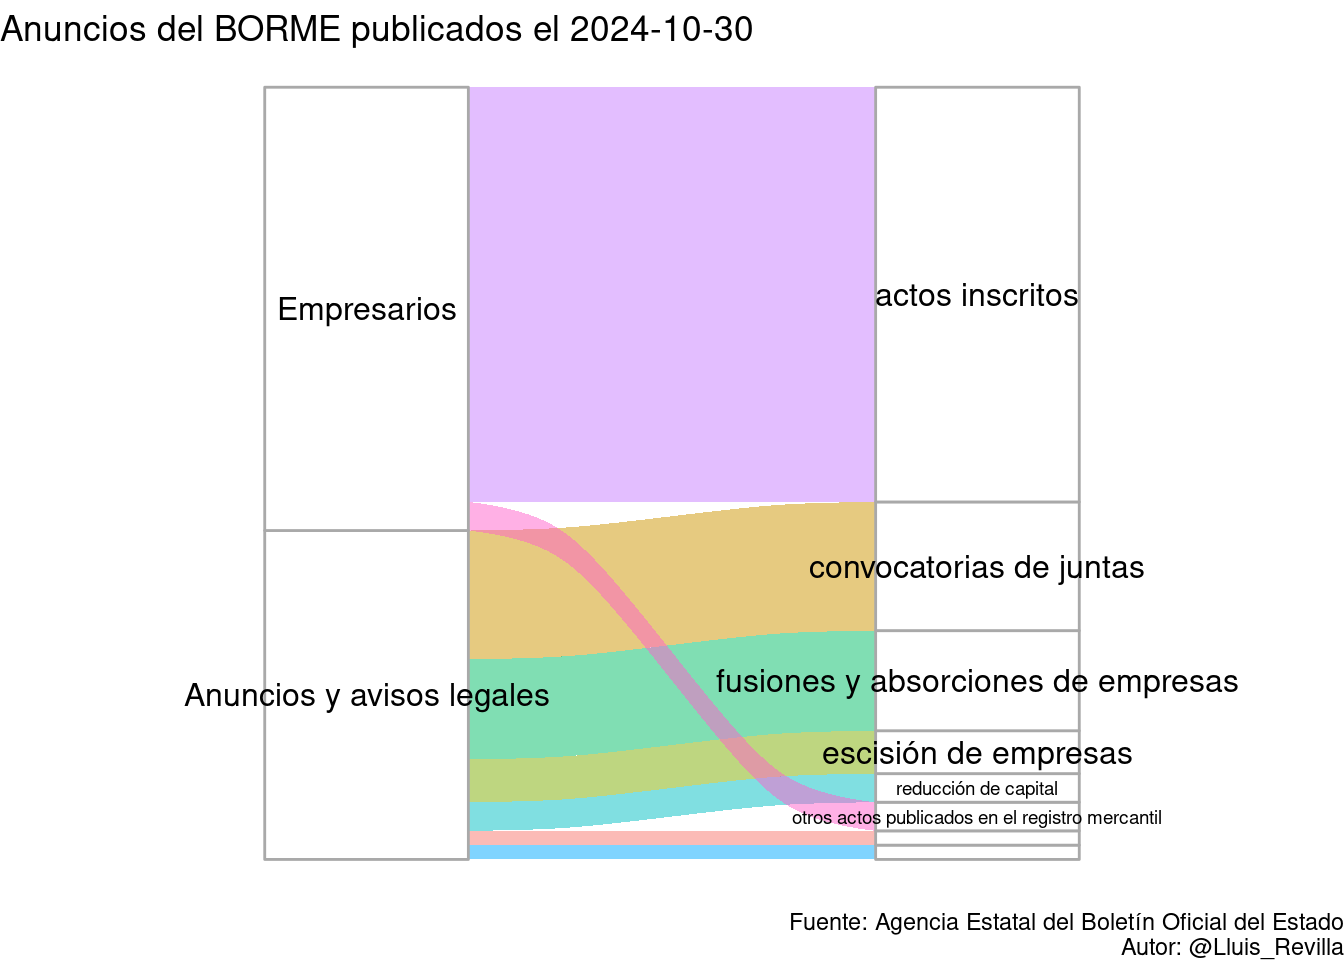
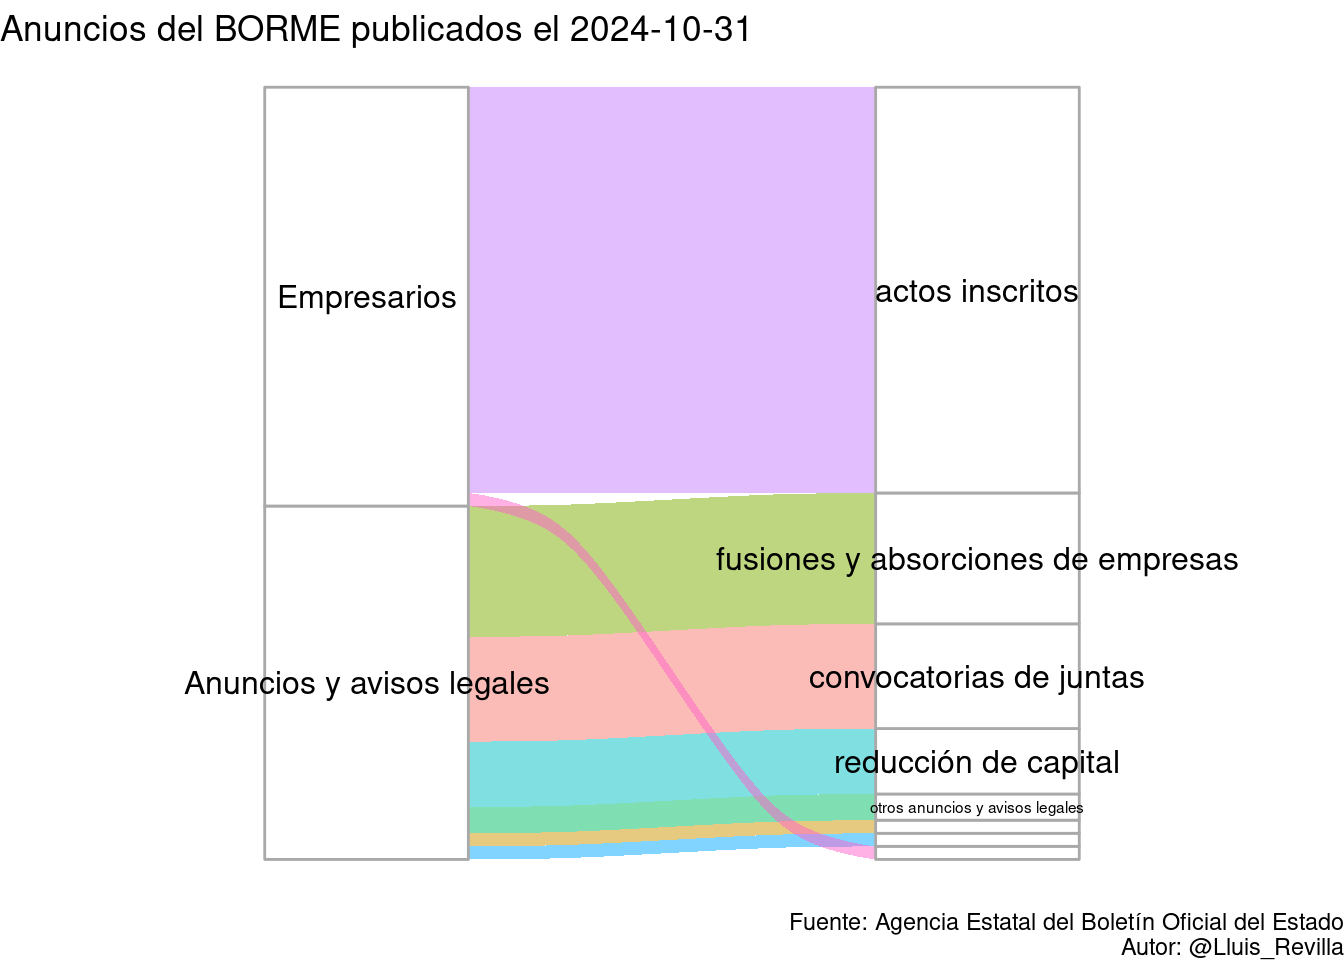
Update BORME

diff --git a/docs/last_BORME.html b/docs/last_BORME.html
@@ -379,14 +379,14 @@ $(document).ready(function () {
 
 <div id="resumen-gráfico" class="section level1">
 <h1>Resumen gráfico</h1>
-<p>Esta página web contiene el último sumario del BORME publicado el 2024-10-30 con 54 publicaciones.</p>
+<p>Esta página web contiene el último sumario del BORME publicado el 2024-10-31 con 59 publicaciones.</p>
 <p><img src="last_BORME_files/figure-html/graphics-1.png" width="672" /></p>
 </div>
 <div id="tabla-de-publicaciones" class="section level1">
 <h1>Tabla de publicaciones</h1>
 <p>Aquí está la tabla completa con enlaces a las publicaciones:</p>
-<div class="datatables html-widget html-fill-item-overflow-hidden html-fill-item" id="htmlwidget-936cdd98e0399a14b1dd" style="width:100%;height:auto;"></div>
-<script type="application/json" data-for="htmlwidget-936cdd98e0399a14b1dd">{"x":{"filter":"top","vertical":false,"filterHTML":"<tr>\n  <td><\/td>\n  <td data-type=\"character\" style=\"vertical-align: top;\">\n    <div class=\"form-group has-feedback\" style=\"margin-bottom: auto;\">\n      <input type=\"search\" placeholder=\"All\" class=\"form-control\" style=\"width: 100%;\"/>\n      <span class=\"glyphicon glyphicon-remove-circle form-control-feedback\"><\/span>\n    <\/div>\n  <\/td>\n  <td data-type=\"character\" style=\"vertical-align: top;\">\n    <div class=\"form-group has-feedback\" style=\"margin-bottom: auto;\">\n      <input type=\"search\" placeholder=\"All\" class=\"form-control\" style=\"width: 100%;\"/>\n      <span class=\"glyphicon glyphicon-remove-circle form-control-feedback\"><\/span>\n    <\/div>\n  <\/td>\n  <td data-type=\"character\" style=\"vertical-align: top;\">\n    <div class=\"form-group has-feedback\" style=\"margin-bottom: auto;\">\n      <input type=\"search\" placeholder=\"All\" class=\"form-control\" style=\"width: 100%;\" disabled=\"\"/>\n      <span class=\"glyphicon glyphicon-remove-circle form-control-feedback\"><\/span>\n    <\/div>\n  <\/td>\n  <td data-type=\"character\" style=\"vertical-align: top;\">\n    <div class=\"form-group has-feedback\" style=\"margin-bottom: auto;\">\n      <input type=\"search\" placeholder=\"All\" class=\"form-control\" style=\"width: 100%;\"/>\n      <span class=\"glyphicon glyphicon-remove-circle form-control-feedback\"><\/span>\n    <\/div>\n  <\/td>\n<\/tr>","data":[["1","2","3","4","5","6","7","8","9","10","11","12","13","14","15","16","17","18","19","20","21","22","23","24","25","26","27","28","29","30","31","32","33","34","35","36","37","38","39","40","41","42","43","44","45","46","47","48","49","50","51","52","53","54"],["SECCIÓN PRIMERA. Empresarios","SECCIÓN PRIMERA. Empresarios","SECCIÓN PRIMERA. Empresarios","SECCIÓN PRIMERA. Empresarios","SECCIÓN PRIMERA. Empresarios","SECCIÓN PRIMERA. Empresarios","SECCIÓN PRIMERA. Empresarios","SECCIÓN PRIMERA. Empresarios","SECCIÓN PRIMERA. Empresarios","SECCIÓN PRIMERA. Empresarios","SECCIÓN PRIMERA. Empresarios","SECCIÓN PRIMERA. Empresarios","SECCIÓN PRIMERA. Empresarios","SECCIÓN PRIMERA. Empresarios","SECCIÓN PRIMERA. Empresarios","SECCIÓN PRIMERA. Empresarios","SECCIÓN PRIMERA. Empresarios","SECCIÓN PRIMERA. Empresarios","SECCIÓN PRIMERA. Empresarios","SECCIÓN PRIMERA. Empresarios","SECCIÓN PRIMERA. Empresarios","SECCIÓN PRIMERA. Empresarios","SECCIÓN PRIMERA. Empresarios","SECCIÓN PRIMERA. Empresarios","SECCIÓN PRIMERA. Empresarios","SECCIÓN PRIMERA. Empresarios","SECCIÓN PRIMERA. Empresarios","SECCIÓN PRIMERA. Empresarios","SECCIÓN PRIMERA. Empresarios","SECCIÓN PRIMERA. Empresarios","SECCIÓN PRIMERA. Empresarios","SECCIÓN SEGUNDA. Anuncios y avisos legales","SECCIÓN SEGUNDA. Anuncios y avisos legales","SECCIÓN SEGUNDA. Anuncios y avisos legales","SECCIÓN SEGUNDA. Anuncios y avisos legales","SECCIÓN SEGUNDA. Anuncios y avisos legales","SECCIÓN SEGUNDA. Anuncios y avisos legales","SECCIÓN SEGUNDA. Anuncios y avisos legales","SECCIÓN SEGUNDA. Anuncios y avisos legales","SECCIÓN SEGUNDA. Anuncios y avisos legales","SECCIÓN SEGUNDA. Anuncios y avisos legales","SECCIÓN SEGUNDA. Anuncios y avisos legales","SECCIÓN SEGUNDA. Anuncios y avisos legales","SECCIÓN SEGUNDA. Anuncios y avisos legales","SECCIÓN SEGUNDA. Anuncios y avisos legales","SECCIÓN SEGUNDA. Anuncios y avisos legales","SECCIÓN SEGUNDA. Anuncios y avisos legales","SECCIÓN SEGUNDA. Anuncios y avisos legales","SECCIÓN SEGUNDA. Anuncios y avisos legales","SECCIÓN SEGUNDA. Anuncios y avisos legales","SECCIÓN SEGUNDA. Anuncios y avisos legales","SECCIÓN SEGUNDA. Anuncios y avisos legales","SECCIÓN SEGUNDA. Anuncios y avisos legales","SECCIÓN SEGUNDA. Anuncios y avisos legales"],["Actos inscritos","Actos inscritos","Actos inscritos","Actos inscritos","Actos inscritos","Actos inscritos","Actos inscritos","Actos inscritos","Actos inscritos","Actos inscritos","Actos inscritos","Actos inscritos","Actos inscritos","Actos inscritos","Actos inscritos","Actos inscritos","Actos inscritos","Actos inscritos","Actos inscritos","Actos inscritos","Actos inscritos","Actos inscritos","Actos inscritos","Actos inscritos","Actos inscritos","Actos inscritos","Actos inscritos","Actos inscritos","Actos inscritos","Otros actos publicados en el Registro Mercantil","Otros actos publicados en el Registro Mercantil","CONVOCATORIAS DE JUNTAS","CONVOCATORIAS DE JUNTAS","CONVOCATORIAS DE JUNTAS","CONVOCATORIAS DE JUNTAS","CONVOCATORIAS DE JUNTAS","CONVOCATORIAS DE JUNTAS","CONVOCATORIAS DE JUNTAS","CONVOCATORIAS DE JUNTAS","CONVOCATORIAS DE JUNTAS","FUSIONES Y ABSORCIONES DE EMPRESAS","FUSIONES Y ABSORCIONES DE EMPRESAS","FUSIONES Y ABSORCIONES DE EMPRESAS","FUSIONES Y ABSORCIONES DE EMPRESAS","FUSIONES Y ABSORCIONES DE EMPRESAS","FUSIONES Y ABSORCIONES DE EMPRESAS","FUSIONES Y ABSORCIONES DE EMPRESAS","ESCISIÓN DE EMPRESAS","ESCISIÓN DE EMPRESAS","ESCISIÓN DE EMPRESAS","TRANSFORMACIÓN DE EMPRESAS","AUMENTO DE CAPITAL","REDUCCIÓN DE CAPITAL","REDUCCIÓN DE CAPITAL"],[null,null,null,null,null,null,null,null,null,null,null,null,null,null,null,null,null,null,null,null,null,null,null,null,null,null,null,null,null,null,null,null,null,null,null,null,null,null,null,null,null,null,null,null,null,null,null,null,null,null,null,null,null,null],["BORME-A-2024-210-03","BORME-A-2024-210-04","BORME-A-2024-210-05","BORME-A-2024-210-07","BORME-A-2024-210-08","BORME-A-2024-210-09","BORME-A-2024-210-11","BORME-A-2024-210-15","BORME-A-2024-210-17","BORME-A-2024-210-18","BORME-A-2024-210-23","BORME-A-2024-210-24","BORME-A-2024-210-25","BORME-A-2024-210-26","BORME-A-2024-210-28","BORME-A-2024-210-29","BORME-A-2024-210-30","BORME-A-2024-210-32","BORME-A-2024-210-35","BORME-A-2024-210-36","BORME-A-2024-210-38","BORME-A-2024-210-40","BORME-A-2024-210-43","BORME-A-2024-210-45","BORME-A-2024-210-46","BORME-A-2024-210-49","BORME-A-2024-210-50","BORME-A-2024-210-51","BORME-A-2024-210-99","BORME-B-2024-210-43","BORME-B-2024-210-48","BORME-C-2024-5793","BORME-C-2024-5794","BORME-C-2024-5795","BORME-C-2024-5796","BORME-C-2024-5797","BORME-C-2024-5798","BORME-C-2024-5799","BORME-C-2024-5800","BORME-C-2024-5801","BORME-C-2024-5802","BORME-C-2024-5803","BORME-C-2024-5804","BORME-C-2024-5805","BORME-C-2024-5806","BORME-C-2024-5807","BORME-C-2024-5808","BORME-C-2024-5809","BORME-C-2024-5810","BORME-C-2024-5811","BORME-C-2024-5812","BORME-C-2024-5813","BORME-C-2024-5814","BORME-C-2024-5815"]],"container":"<table class=\"display\">\n  <thead>\n    <tr>\n      <th> <\/th>\n      <th>Sección<\/th>\n      <th>Emisor<\/th>\n      <th>Texto<\/th>\n      <th>Link<\/th>\n    <\/tr>\n  <\/thead>\n<\/table>","options":{"pageLength":10,"autoWidth":true,"columnDefs":[{"orderable":false,"targets":0},{"name":" ","targets":0},{"name":"Sección","targets":1},{"name":"Emisor","targets":2},{"name":"Texto","targets":3},{"name":"Link","targets":4}],"order":[],"orderClasses":false,"orderCellsTop":true}},"evals":[],"jsHooks":[]}</script>
+<div class="datatables html-widget html-fill-item-overflow-hidden html-fill-item" id="htmlwidget-fffde21763f0736891bd" style="width:100%;height:auto;"></div>
+<script type="application/json" data-for="htmlwidget-fffde21763f0736891bd">{"x":{"filter":"top","vertical":false,"filterHTML":"<tr>\n  <td><\/td>\n  <td data-type=\"character\" style=\"vertical-align: top;\">\n    <div class=\"form-group has-feedback\" style=\"margin-bottom: auto;\">\n      <input type=\"search\" placeholder=\"All\" class=\"form-control\" style=\"width: 100%;\"/>\n      <span class=\"glyphicon glyphicon-remove-circle form-control-feedback\"><\/span>\n    <\/div>\n  <\/td>\n  <td data-type=\"character\" style=\"vertical-align: top;\">\n    <div class=\"form-group has-feedback\" style=\"margin-bottom: auto;\">\n      <input type=\"search\" placeholder=\"All\" class=\"form-control\" style=\"width: 100%;\"/>\n      <span class=\"glyphicon glyphicon-remove-circle form-control-feedback\"><\/span>\n    <\/div>\n  <\/td>\n  <td data-type=\"character\" style=\"vertical-align: top;\">\n    <div class=\"form-group has-feedback\" style=\"margin-bottom: auto;\">\n      <input type=\"search\" placeholder=\"All\" class=\"form-control\" style=\"width: 100%;\" disabled=\"\"/>\n      <span class=\"glyphicon glyphicon-remove-circle form-control-feedback\"><\/span>\n    <\/div>\n  <\/td>\n  <td data-type=\"character\" style=\"vertical-align: top;\">\n    <div class=\"form-group has-feedback\" style=\"margin-bottom: auto;\">\n      <input type=\"search\" placeholder=\"All\" class=\"form-control\" style=\"width: 100%;\"/>\n      <span class=\"glyphicon glyphicon-remove-circle form-control-feedback\"><\/span>\n    <\/div>\n  <\/td>\n<\/tr>","data":[["1","2","3","4","5","6","7","8","9","10","11","12","13","14","15","16","17","18","19","20","21","22","23","24","25","26","27","28","29","30","31","32","33","34","35","36","37","38","39","40","41","42","43","44","45","46","47","48","49","50","51","52","53","54","55","56","57","58","59"],["SECCIÓN PRIMERA. Empresarios","SECCIÓN PRIMERA. Empresarios","SECCIÓN PRIMERA. Empresarios","SECCIÓN PRIMERA. Empresarios","SECCIÓN PRIMERA. Empresarios","SECCIÓN PRIMERA. Empresarios","SECCIÓN PRIMERA. Empresarios","SECCIÓN PRIMERA. Empresarios","SECCIÓN PRIMERA. Empresarios","SECCIÓN PRIMERA. Empresarios","SECCIÓN PRIMERA. Empresarios","SECCIÓN PRIMERA. Empresarios","SECCIÓN PRIMERA. Empresarios","SECCIÓN PRIMERA. Empresarios","SECCIÓN PRIMERA. Empresarios","SECCIÓN PRIMERA. Empresarios","SECCIÓN PRIMERA. Empresarios","SECCIÓN PRIMERA. Empresarios","SECCIÓN PRIMERA. Empresarios","SECCIÓN PRIMERA. Empresarios","SECCIÓN PRIMERA. Empresarios","SECCIÓN PRIMERA. Empresarios","SECCIÓN PRIMERA. Empresarios","SECCIÓN PRIMERA. Empresarios","SECCIÓN PRIMERA. Empresarios","SECCIÓN PRIMERA. Empresarios","SECCIÓN PRIMERA. Empresarios","SECCIÓN PRIMERA. Empresarios","SECCIÓN PRIMERA. Empresarios","SECCIÓN PRIMERA. Empresarios","SECCIÓN PRIMERA. Empresarios","SECCIÓN PRIMERA. Empresarios","SECCIÓN SEGUNDA. Anuncios y avisos legales","SECCIÓN SEGUNDA. Anuncios y avisos legales","SECCIÓN SEGUNDA. Anuncios y avisos legales","SECCIÓN SEGUNDA. Anuncios y avisos legales","SECCIÓN SEGUNDA. Anuncios y avisos legales","SECCIÓN SEGUNDA. Anuncios y avisos legales","SECCIÓN SEGUNDA. Anuncios y avisos legales","SECCIÓN SEGUNDA. Anuncios y avisos legales","SECCIÓN SEGUNDA. Anuncios y avisos legales","SECCIÓN SEGUNDA. Anuncios y avisos legales","SECCIÓN SEGUNDA. Anuncios y avisos legales","SECCIÓN SEGUNDA. Anuncios y avisos legales","SECCIÓN SEGUNDA. Anuncios y avisos legales","SECCIÓN SEGUNDA. Anuncios y avisos legales","SECCIÓN SEGUNDA. Anuncios y avisos legales","SECCIÓN SEGUNDA. Anuncios y avisos legales","SECCIÓN SEGUNDA. Anuncios y avisos legales","SECCIÓN SEGUNDA. Anuncios y avisos legales","SECCIÓN SEGUNDA. Anuncios y avisos legales","SECCIÓN SEGUNDA. Anuncios y avisos legales","SECCIÓN SEGUNDA. Anuncios y avisos legales","SECCIÓN SEGUNDA. Anuncios y avisos legales","SECCIÓN SEGUNDA. Anuncios y avisos legales","SECCIÓN SEGUNDA. Anuncios y avisos legales","SECCIÓN SEGUNDA. Anuncios y avisos legales","SECCIÓN SEGUNDA. Anuncios y avisos legales","SECCIÓN SEGUNDA. Anuncios y avisos legales"],["Actos inscritos","Actos inscritos","Actos inscritos","Actos inscritos","Actos inscritos","Actos inscritos","Actos inscritos","Actos inscritos","Actos inscritos","Actos inscritos","Actos inscritos","Actos inscritos","Actos inscritos","Actos inscritos","Actos inscritos","Actos inscritos","Actos inscritos","Actos inscritos","Actos inscritos","Actos inscritos","Actos inscritos","Actos inscritos","Actos inscritos","Actos inscritos","Actos inscritos","Actos inscritos","Actos inscritos","Actos inscritos","Actos inscritos","Actos inscritos","Actos inscritos","Otros actos publicados en el Registro Mercantil","CONVOCATORIAS DE JUNTAS","CONVOCATORIAS DE JUNTAS","CONVOCATORIAS DE JUNTAS","CONVOCATORIAS DE JUNTAS","CONVOCATORIAS DE JUNTAS","CONVOCATORIAS DE JUNTAS","CONVOCATORIAS DE JUNTAS","CONVOCATORIAS DE JUNTAS","FUSIONES Y ABSORCIONES DE EMPRESAS","FUSIONES Y ABSORCIONES DE EMPRESAS","FUSIONES Y ABSORCIONES DE EMPRESAS","FUSIONES Y ABSORCIONES DE EMPRESAS","FUSIONES Y ABSORCIONES DE EMPRESAS","FUSIONES Y ABSORCIONES DE EMPRESAS","FUSIONES Y ABSORCIONES DE EMPRESAS","FUSIONES Y ABSORCIONES DE EMPRESAS","FUSIONES Y ABSORCIONES DE EMPRESAS","FUSIONES Y ABSORCIONES DE EMPRESAS","ESCISIÓN DE EMPRESAS","TRANSFORMACIÓN DE EMPRESAS","REDUCCIÓN DE CAPITAL","REDUCCIÓN DE CAPITAL","REDUCCIÓN DE CAPITAL","REDUCCIÓN DE CAPITAL","REDUCCIÓN DE CAPITAL","OTROS ANUNCIOS Y AVISOS LEGALES","OTROS ANUNCIOS Y AVISOS LEGALES"],[null,null,null,null,null,null,null,null,null,null,null,null,null,null,null,null,null,null,null,null,null,null,null,null,null,null,null,null,null,null,null,null,null,null,null,null,null,null,null,null,null,null,null,null,null,null,null,null,null,null,null,null,null,null,null,null,null,null,null],["BORME-A-2024-211-02","BORME-A-2024-211-03","BORME-A-2024-211-04","BORME-A-2024-211-06","BORME-A-2024-211-08","BORME-A-2024-211-09","BORME-A-2024-211-12","BORME-A-2024-211-15","BORME-A-2024-211-17","BORME-A-2024-211-18","BORME-A-2024-211-22","BORME-A-2024-211-23","BORME-A-2024-211-24","BORME-A-2024-211-26","BORME-A-2024-211-28","BORME-A-2024-211-29","BORME-A-2024-211-30","BORME-A-2024-211-31","BORME-A-2024-211-33","BORME-A-2024-211-34","BORME-A-2024-211-35","BORME-A-2024-211-36","BORME-A-2024-211-41","BORME-A-2024-211-42","BORME-A-2024-211-43","BORME-A-2024-211-45","BORME-A-2024-211-46","BORME-A-2024-211-48","BORME-A-2024-211-49","BORME-A-2024-211-50","BORME-A-2024-211-99","BORME-B-2024-211-35","BORME-C-2024-5816","BORME-C-2024-5817","BORME-C-2024-5818","BORME-C-2024-5819","BORME-C-2024-5820","BORME-C-2024-5821","BORME-C-2024-5822","BORME-C-2024-5823","BORME-C-2024-5824","BORME-C-2024-5825","BORME-C-2024-5826","BORME-C-2024-5827","BORME-C-2024-5828","BORME-C-2024-5829","BORME-C-2024-5830","BORME-C-2024-5831","BORME-C-2024-5832","BORME-C-2024-5833","BORME-C-2024-5834","BORME-C-2024-5835","BORME-C-2024-5836","BORME-C-2024-5837","BORME-C-2024-5838","BORME-C-2024-5839","BORME-C-2024-5840","BORME-C-2024-5841","BORME-C-2024-5842"]],"container":"<table class=\"display\">\n  <thead>\n    <tr>\n      <th> <\/th>\n      <th>Sección<\/th>\n      <th>Emisor<\/th>\n      <th>Texto<\/th>\n      <th>Link<\/th>\n    <\/tr>\n  <\/thead>\n<\/table>","options":{"pageLength":10,"autoWidth":true,"columnDefs":[{"orderable":false,"targets":0},{"name":" ","targets":0},{"name":"Sección","targets":1},{"name":"Emisor","targets":2},{"name":"Texto","targets":3},{"name":"Link","targets":4}],"order":[],"orderClasses":false,"orderCellsTop":true}},"evals":[],"jsHooks":[]}</script>
 </div>
 
 
